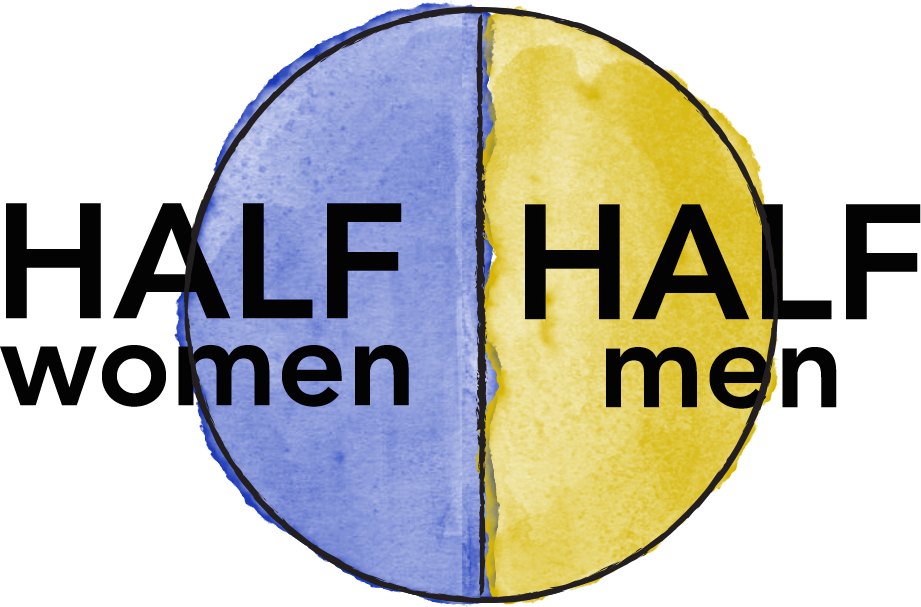
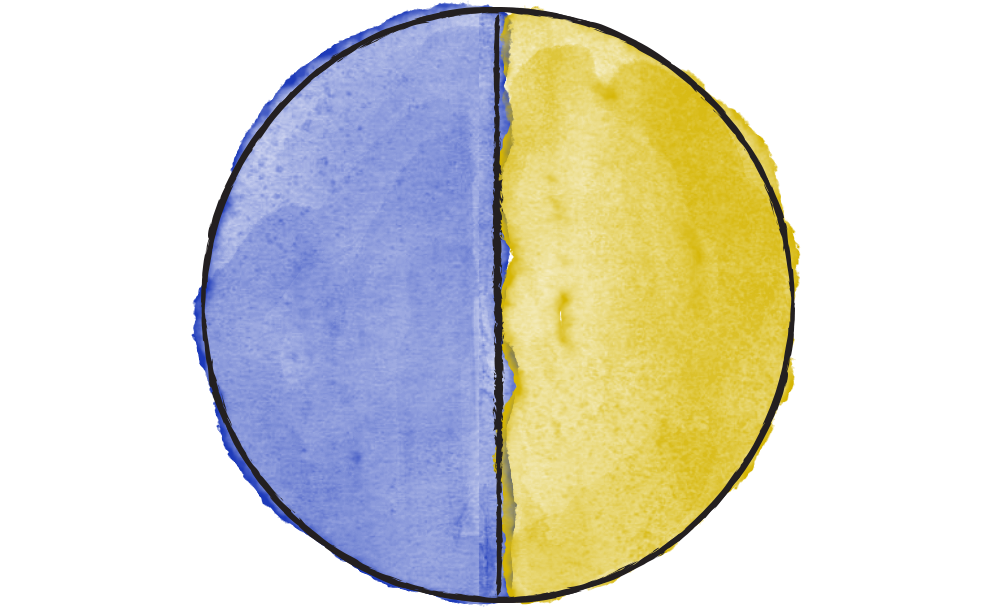
Change copy of circle chart

Changed region(s): [[0.0, 0.0, 1.0, 1.0], [0.3344, 0.7414, 0.3952, 0.771]]

diff --git a/about.html b/about.html
@@ -84,7 +84,7 @@ layout: default
 
 <div class="infographic-container infographic-font-main">
   <div="row">
-      <div class="usa-width-one-half"><img class="reserve" src="img/about-infographic/infographic-5050.png" alt="pie chart" /><p>Over 50% women</p></div>
+      <div class="usa-width-one-half"><img class="reserve" src="img/about-infographic/infographic-5050.png" alt="pie chart" /><p>Half women / Half men</p></div>
       <div class="usa-width-one-half"><img class="reserve" src="img/about-infographic/infographic-lamp.png" alt="laptop with stickers and emojis" /><p>Emoji, post-its, and sticker enthusiasts</p></div>
   </div>
 </div>
